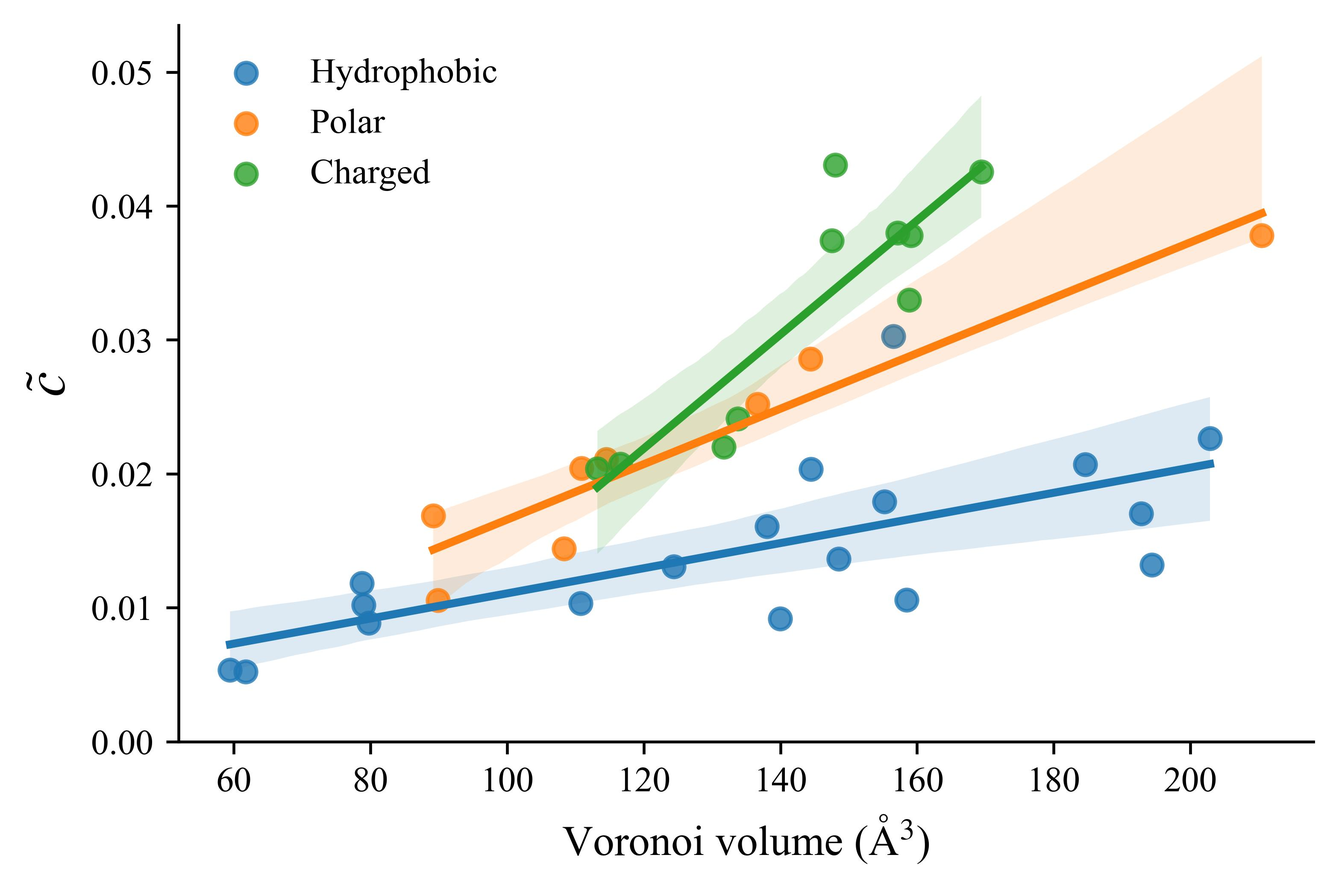
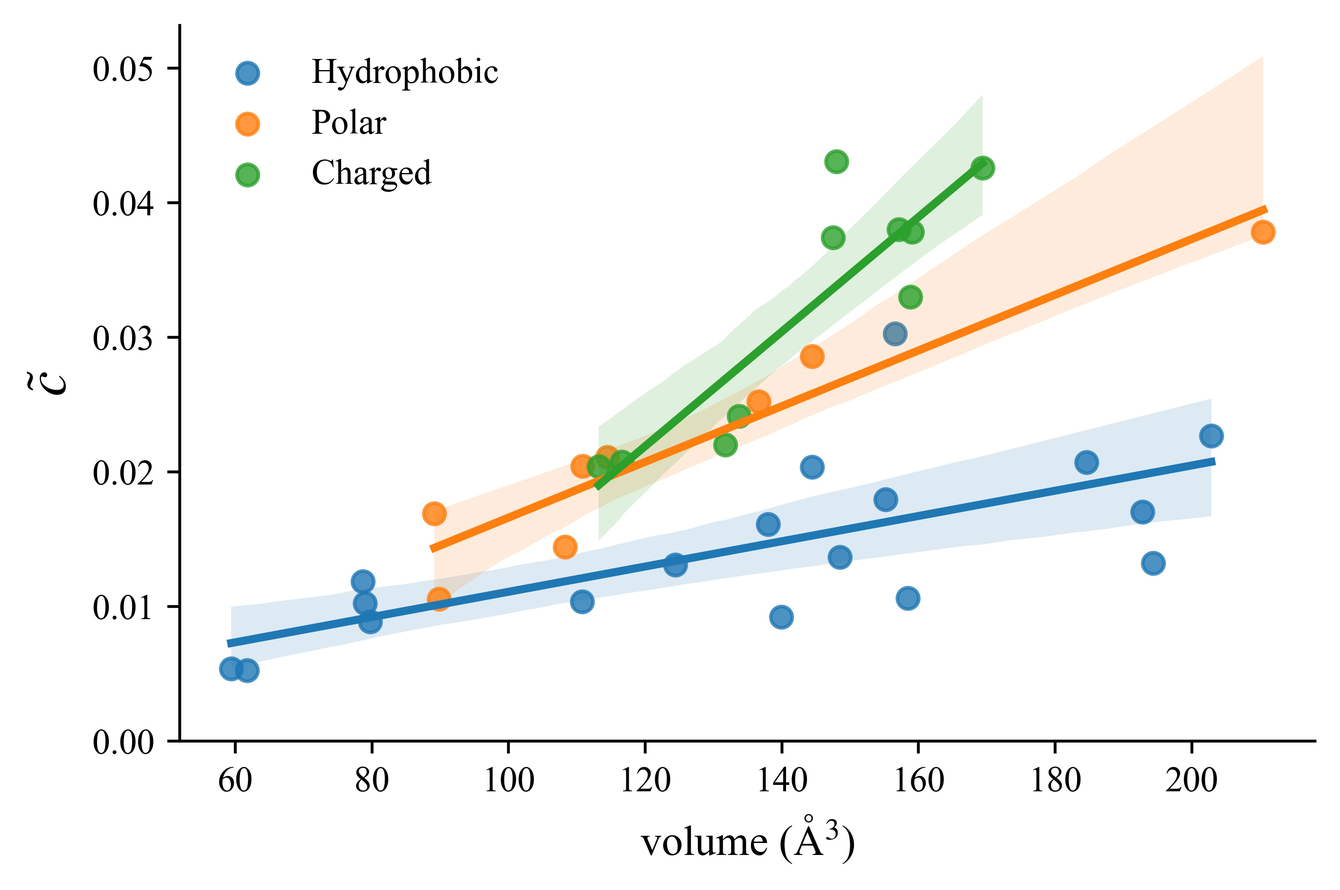
chapter 3

diff --git a/source/11_chapter3_hp36_linearhomopolymer.md b/source/11_chapter3_hp36_linearhomopolymer.md
@@ -6,8 +6,8 @@
 
 ![The thermal conductivity of HP36. The autocorrelation function of the heat current of the entire molecule of HP36 was calculated and ensemble-averaged, and plotted as a function of time (blue). The inset shows the short-time region (0 - 0.2 ps). The heat current autocorrelation function was integrated over time using the trapezoidal rule, yielding a quantity denoted as $\lambda$  as a function of integration time (shown in orange), and a running mean of $\lambda$ was computed with a window size of 100 fs and is illustrated in red. The volume of HP36 was set to 4845.447 $\AA^3$.[@yamato2022]](figures/cross/hcacf-100ps.jpeg){#fig:hcacf-100ps width=70%}
 
-The overall thermal conductivity, denoted as $\lambda$, of the HP36 protein was determined using equation (@eqc1) in this study. To calculate the total volume of HP36 and individual atom volumes, we utilized the VLDP (Voronoi Laguerre Delaunay Protein) method through a web server [@esque2013].
-After obtaining the ensemble-averaged heat current autocorrelation function, we performed time integration using the trapezoidal rule, as depicted in Figure [hcacf-100ps]. The value of $\lambda$ converged at approximately $t$ = 60 ps, resulting in a thermal conductivity of 0.26 $\mathrm{\pm}$ 0.01 $\mathrm{W{/}(m{\cdot}K)}$.
+The overall thermal conductivity, denoted as $\lambda$, of the HP36 protein was determined using equation ([@eq:eqc1]) in this study. To calculate the total volume of HP36 and individual atom volumes, we utilized the VLDP (Voronoi Laguerre Delaunay Protein) method through a web server [@esque2013].
+After obtaining the ensemble-averaged heat current autocorrelation function, we performed time integration using the trapezoidal rule, as depicted in Figure [@fig:hcacf-100ps]. The value of $\lambda$ converged at approximately $t$ = 60 ps, resulting in a thermal conductivity of 0.26 $\mathrm{\pm}$ 0.01 $\mathrm{W{/}(m{\cdot}K)}$.
 It is worth noting that the calculated value of $\lambda$ slightly differs from the previous calculation,[@yamato2022] primarily due to the utilization of a "flexible" TIP3P water model in the previous study.
 The dependence of the water model on thermal conductivity will be discussed further in @sec:watermodel.
 For subsequent analyses, we set the upper limit of the time integration of the local heat current autocorrelation function to 60 ps.
@@ -15,12 +15,12 @@ For subsequent analyses, we set the upper limit of the time integration of the l
 ## Local thermal transport
 
 The contribution factors for intra-residue and inter-residue heat currents were presented in [@fig:heat_before].
-In general, the intra-residue contribution factors were found to be higher than the inter-residue factors, except for certain pairs of terminal residues (Met1-Leu2, Leu35-Phe36 and Gly12-Met13).
-The average intra-residue contribution factor was 0.029, which was nearly twice as large as the average inter-residue contribution factor (0.016).
-This suggests that intra-residue thermal transport makes a dominant contribution to the overall heat current, which is consistent with the findings of the master equation analysis. [@buchenberg2016]
-On the other hand, different with these two dominate pathways of thermal tranfer in proteins, the contributions from sidechain-sidechain heat currents across non-bonded native contacts were relatively small.[@yamato2022]
+In general, the intra-residue contribution factors were found to be higher than the inter-residue factors (_c_), except for certain pairs of terminal residues (Met1-Leu2, Leu35-Phe36 and Gly12-Met13).
+The average intra-residue contribution factor (see @eq:eqc10) was 0.029, which was nearly twice as large as the average inter-residue contribution factor (0.016).
+This suggests that intra-residue thermal transport makes a dominant contribution to the overall heat current, which is consistent with the results of the master equation analysis. [@buchenberg2016]
+In addition to these two dominating thermal energy transport pathways, the contributions from sidechain-sidechain heat currents across non-bonded native contacts were relatively small.[@yamato2022]
 
-![The contribution factors without cross-correlation corrections were calculated and plotted for both intra-residue ($c(\alpha, \alpha)$, shown in red) and inter-residue ($c(\alpha, \alpha+1)$, shown in green) interactions, as described in equations (eqc11) and (eqc12), respectively. The data points, such as $c(1,2)$, represent the contribution factor between residue numbers $\alpha = 1$ and $\alpha = 2$. The horizontal axis displays the residue number, $\alpha$, along with the corresponding residue names represented in the one-letter code. The grey-shaded regions correspond to the $\alpha$-helical regions.](figures/cross/heat-conductivity-before-corrected.jpeg){#fig:heat_before width=70%}
+![The contribution factors without cross-correlation corrections were calculated and plotted for both intra-residue ($c(\alpha, \alpha)$, shown in red) and inter-residue ($c(\alpha, \alpha+1)$, shown in green) interactions, as described in equations (@eq:eqc11) and (@eq:eqc12), respectively. The data points, such as $c(1,2)$, represent the contribution factor between residue numbers $\alpha = 1$ and $\alpha = 2$. The horizontal axis displays the residue number, $\alpha$, along with the corresponding residue names represented in the one-letter code. The grey-shaded regions correspond to the $\alpha$-helical regions.](figures/cross/heat-conductivity-before-corrected.jpeg){#fig:heat_before width=70%}
 
 The sum of the intra-residue contribution factors, $\sum_{\alpha=1}^{36}{c(\alpha,\alpha)}$, was 1.06, and the sum of the inter-residue contribution factors, $\sum_{\alpha=1}^{35}{c(\alpha,\alpha+1)}$, was 0.57.
 The deviation of 1.06 + 0.57 = 1.63 from 1 suggests the presence of non-negligible cross-correlation effects among different partial heat currents.
@@ -32,57 +32,55 @@ In @sec:cross-correlation, we will delve into a more detailed analysis of these 
 
 ![Contribution factors with cross-correlation correction. See the caption to [@fig:heat_before]](figures/cross/heat-conductivity-after-corrected.jpeg){#fig:heat_after width=70%}
 
-In this study, we made the assumption that the cross-correlation effect is limited to adjacent residues along the polypeptide sequence.
-The cross-correlation term was calculated according to the method described in @sec:method-cross-correlation, and the results are presented in @fig:cross.
-Interestingly, we observed a dependence of the cross-correlation effect on the secondary structure, with the α-helical regions showing less influence from cross-correlation.
-The reason for this observation is currently unclear and will be investigated further in future studies focusing on the secondary structure dependence of thermal transport in proteins.
+In this study, we assumed that the cross-correlation effect is short range along the polypeptide sequence (@sec:method-cross-correlation).
+Interestingly, the cross-correlation effect exhibits secondary structure dependence (@fig:cross): the α-helical regions are less affected by the cross-correlation.
+The reason for this observation is currently unclear and will be investigated further in future studies.
 
-After incorporating the cross-correlation terms, all of the contribution factors decreased.
-The corrected contribution factors are shown in [@fig:heat_after], which exhibits similar patterns to [@fig:heat_before].
-The total intra-residue contribution was 0.75, approximately three times larger than the inter-residue contribution of 0.26.
-To validate the assumption of short-range cross-correlation, we also calculated the contributing factors for the second nearest cross-correlation between residue α and α+2 ($\xi_{\alpha, \alpha+2}$) using the same method described in @sec:method-cross-correlation.
-The total contribution factors due to the second nearest cross-correlation were 0.03, shown in @tbl:secondnearest, while that for the nearest cross-correlation was -0.62, shown in @tbl:nearest, indicating that the second nearest cross-correlation has a minimal impact on the overall heat current.
+All of the contribution factors decreased after the cross-correlation correction (@fig:heat_after), yielding a similar pattern to @fig:heat_before.
+The total intra-residue contribution was 0.75, approximately three times larger than that of the inter-residue contribution of 0.26.
+To validate the assumption of short-range cross-correlation, we also calculated the contributing factors for the second nearest cross-correlation between residue pairs of α and α+2 ($\xi_{\alpha, \alpha+2}$), ($\alpha$ = 1, 2, ..., 34), using the same method described in @sec:method-cross-correlation.
+The total contribution due to the second nearest cross-correlation was 0.03 (@tbl:secondnearest), while that for the nearest cross-correlation was –0.62(@tbl:nearest), indicating that the second nearest cross-correlation has a minimal impact on the overall heat current.
 
-To assess the validity of the linear-homopolymer-like model, we compared the time-integrated autocorrelation functions (ACF) between $\Lambda$ and $\tilde \Lambda$.
-The former is derived from the exact heat current of the entire molecule, while the latter is based on the linear-homopolymer-like model.
-The calculation results showed that $\tilde \Lambda$ overestimated $\Lambda$ by only 0.9%, indicating that the linear-homopolymer-like model successfully represents the thermal transport property of the entire molecule.
+To validate the linear-homopolymer-like model, we compared $\Lambda$ and $\tilde \Lambda$.
+The former was derived from the exact heat current of the entire molecule, while the latter was based on the linear-homopolymer-like model.
+The calculation results showed that $\tilde \Lambda$ overestimated $\Lambda$ only by 0.9%, indicating that the linear-homopolymer-like model successfully represents the thermal transport property of the entire molecule.
 
 | Residue($\alpha$)| Residue($\alpha+2$) | $\xi_{\alpha, \alpha+2}$ | $c^{\rm{cross}}(\alpha, \alpha+2)$ |
 | :--------------- | :------------------- | :----------------------- | :--------------------- |
-| MET1             | SER3                 | 0.042                    | 0.004                  |
-| LEU2             | ASP4                 | 0.036                    | 0.004                  |
-| SER3             | GLU5                 | 0.036                    | 0.004                  |
-| ASP4             | ASP6                 | -0.007                   | -0.001                 |
-| GLU5             | PHE7                 | -0.028                   | -0.003                 |
-| ASP6             | LYS8                 | 0.000                    | 0.000                  |
-| PHE7             | ALA9                 | 0.027                    | 0.003                  |
-| LYS8             | VAL10                | 0.022                    | 0.002                  |
-| ALA9             | PHE11                | 0.042                    | 0.004                  |
-| VAL10            | GLY12                | 0.029                    | 0.003                  |
-| PHE11            | MET13                | 0.051                    | 0.005                  |
-| GLY12            | THR14                | 0.006                    | 0.001                  |
-| MET13            | ARG15                | -0.033                   | -0.003                 |
-| THR14            | SER16                | -0.024                   | -0.002                 |
 | ARG15            | ALA17                | 0.012                    | 0.001                  |
-| SER16            | PHE18                | 0.015                    | 0.001                  |
 | ALA17            | ALA19                | -0.010                   | -0.001                 |
+| PHE7             | ALA9                 | 0.027                    | 0.003                  |
+| MET13            | ARG15                | -0.033                   | -0.003                 |
 | PHE18            | ASN20                | -0.007                   | -0.001                 |
-| ALA19            | LEU21                | 0.024                    | 0.002                  |
-| ASN20            | PRO22                | 0.026                    | 0.003                  |
-| LEU21            | LEU23                | -0.027                   | -0.003                 |
-| PRO22            | TRP24                | 0.014                    | 0.001                  |
-| LEU23            | LYS25                | 0.063                    | 0.006                  |
+| GLN26            | ASN28                | 0.032                    | 0.003                  |
+| LEU2             | ASP4                 | 0.036                    | 0.004                  |
+| ASP4             | ASP6                 | -0.007                   | -0.001                 |
 | TRP24            | GLN26                | 0.027                    | 0.003                  |
 | LYS25            | GLN27                | 0.045                    | 0.005                  |
-| GLN26            | ASN28                | 0.032                    | 0.003                  |
+| LYS30            | GLU32                | 0.010                    | 0.001                  |
+| SER3             | GLU5                 | 0.036                    | 0.004                  |
+| VAL10            | GLY12                | 0.029                    | 0.003                  |
+| GLU32            | GLY34                | 0.038                    | 0.004                  |
+| ALA19            | LEU21                | 0.024                    | 0.002                  |
+| LEU21            | LEU23                | -0.027                   | -0.003                 |
 | GLN27            | LEU29                | 0.019                    | 0.002                  |
+| LYS33            | LEU35                | 0.086                    | 0.009                  |
+| LEU23            | LYS25                | 0.063                    | 0.006                  |
 | ASN28            | LYS30                | -0.396                   | -0.040                 |
 | LEU29            | LYS31                | 0.028                    | 0.003                  |
-| LYS30            | GLU32                | 0.010                    | 0.001                  |
 | LYS31            | LYS33                | 0.047                    | 0.005                  |
-| GLU32            | GLY34                | 0.038                    | 0.004                  |
-| LYS33            | LEU35                | 0.086                    | 0.009                  |
+| ASP6             | LYS8                 | 0.000                    | 0.000                  |
+| PHE11            | MET13                | 0.051                    | 0.005                  |
+| ALA9             | PHE11                | 0.042                    | 0.004                  |
+| SER16            | PHE18                | 0.015                    | 0.001                  |
 | GLY34            | PHE36                | 0.034                    | 0.003                  |
+| GLU5             | PHE7                 | -0.028                   | -0.003                 |
+| ASN20            | PRO22                | 0.026                    | 0.003                  |
+| THR14            | SER16                | -0.024                   | -0.002                 |
+| MET1             | SER3                 | 0.042                    | 0.004                  |
+| GLY12            | THR14                | 0.006                    | 0.001                  |
+| PRO22            | TRP24                | 0.014                    | 0.001                  |
+| LYS8             | VAL10                | 0.022                    | 0.002                  |
 
 : The second nearest cross-correlation. $\xi_{\alpha, \alpha+2}$ was calculated in a similar manner as $\xi_{\alpha, \alpha+1}$ using @eq:eqc11, and contribution factor, $c^{\rm{cross}}(\alpha, \alpha+2)$, was calculated as $\xi_{\alpha,\alpha+2} / \Lambda$. The values of $\xi$ are shown in the unit of ($\rm{\AA \rm{\cdot kcal/mol)^2/fs}}$. {#tbl:secondnearest}
 
@@ -129,40 +127,37 @@ The calculation results showed that $\tilde \Lambda$ overestimated $\Lambda$ by 
 
 : Local thermal trasnport property after the cross-correlation correction. $\bm\tilde\Lambda_{\alpha, \alpha}$ ($\bm\alpha$=1, 2, ..., 36) and $\bm\tilde\Lambda_{\alpha, \alpha+1}$  ($\bm\alpha$=1, 2, ..., 35) are shown in unit of $\rm{(\AA \cdot kcal)^2/fs}$ (@eq:eqc8), while the value of $\Lambda$ was 9.79 in the same unit (@eq:eqc9). {#tbl:nearest}
 
-
 ## Residue-type dependence{#sec:residue-type-dependence}
 
-By applying the site-selective heat current analysis based on the linear-homopolymer-like model, we were able to evaluate the local thermal conductivity on a residue-by-residue basis. 
+By applying the site-selective heat current analysis based on the linear-homopolymer-like model, we were able to evaluate the residue-by-residue local thermal conductivity.
 [@fig:residue_type] shows the dependence of the intra-residue contribution factors on the residue type.
-The residue volume, V_α_, was calculated as the sum of the atomic volumes of the constituent atoms.
-We obtained the average residue volume using five representative structures of HP36 in thermal equilibrium at _T_ = 300 K, obtained from the VLDP web server.[@esque2013]
+The residue volume, $V_{\alpha}$, was calculated as the sum of the atomic volumes of the constituent atoms.
+We obtained the average residue volume using five representative structures of HP36 in thermal equilibrium at _T_ = 300 K using the VLDP web server.[@esque2013]
 
 We observed that the values of the corrected contribution factors, $\tilde c$, are proportional to the residue volume.
-Additionally, the slope of the linear regression line depends on the residue type, indicating that the residue-wise thermal conductivity is sensitive to the residue type.
-The order of thermal conductivity decreases in the order of charged, polar, and hydrophobic residues.
-We define the residue-wise thermal conductivity, $\lambda_{\alpha}$, of residue α as $\tilde\Lambda_{\alpha,\alpha}/(3V_{\alpha}k_B T)$, which is consistent with the previous report that the thermal diffusion along an α-helix composed entirely of polar residues is faster than that of non-polar residues.[@mino2014]
+Additionally, the slope of the regression line depends on the residue type, indicating that the residue-wise thermal conductivity is sensitive to the residue type.
+We define the residue-wise thermal conductivity, $\lambda_{\alpha}$, of residue α as $\tilde\Lambda_{\alpha,\alpha}/(3V_{\alpha}k_B T)$, and we see that $\lambda_{\alpha}$ decreases in the order of charged, polar, and hydrophobic residues,in consistent with the previous report that the thermal diffusion along an α-helix composed entirely of polar residues is faster than that of its non-polar -residue counterpart.[@mino2014]
 
-![A scatter plot depicting the relationship between the intra-residue contribution factors, $\tilde{c}$, with cross-correlation correction, and the volume of each residue. The contributing factors for charged residues are represented by green dots, polar residues by orange dots, and hydrophobic residues by blue dots.](figures/cross/residue_type_dependence_volume_after_correction.jpeg){#fig:residue_type}
+![Volume dependence of $\tilde{c}$, a residue-wise contribution factor after cross-correlation correction, for charged (green), polar (orange) and  hydrophobic (blue) residues, respectively.](figures/cross/residue_type_dependence_volume_after_correction.jpeg){#fig:residue_type}
 
 ## Local density dependence{#sec:local-density-dependence}
 
 <!-- figures* environment create a two-column-sized figures  -->
 ![A scatter plot and linear correlation analysis were performed to examine the relationship between the intra-residue thermal conductivity and the local density, represented by the mass density ($\rho$), calculated as the ratio of residue mass to residue volume (unit: g/$\rm{cm^3}$)](figures/cross/density_combined.jpeg){#fig:density}
 
-The density of a material is widely recognized as an important factor in determining its thermophysical properties.[@mizutani2022]
+The density of a material is widely recognized as an important determinant of its thermophysical properties.[@mizutani2022]
 The product of material density ($\rho$) and its specific heat capacity ($c_p$), denoted as $\rho{c_p}$, is commonly used as a measure of the thermal energy storage capacity of a material.[@bergman2011]
-This quantity represents the amount of thermal energy that can be stored per unit volume of the material for a given temperature change.
 A higher value of $\rho{c_p}$ indicates a greater capacity of the material to store thermal energy.
 In macroscopic homogeneous materials, it is generally observed that higher densities are associated with higher thermal conductivities.
 This relationship is evident in various materials, such as high-density polyethylene having a higher thermal conductivity (0.44 $\mathrm{W{/} (m{\cdot}K)}$) compared to low-density polyethylene (0.3 $\mathrm{W{/} (m{\cdot}K)}$).
 
-However, in the case of heterogeneous materials like protein molecules, the local density can vary significantly from one site to another.
-This is due to the differences in volume and packing of amino acid residues, resulting in a wider distribution of residue densities.
-To investigate the relationship between local density and thermal conductivity in proteins, a scatter plot was generated in [@fig:density], depicting the residue-wise thermal conductivity versus the local density for each residue.
-The local mass density values range from 1.20 to 1.70 $\rm{g/cm^3}$, shown in [@fig:density]a, b, which is somewhat broader compared to the experimentally and theoretically determined average protein densities ranging from 1.39 to 1.44 $\rm{g/cm^3}$.[@fischer2009]
-This wider range of residue densities is primarily due to the variation in the volume of amino acid residues between buried and exposed states within the protein structure.
-The buried residues, which are surrounded by other residues, tend to have a higher density compared to the exposed residues, which have more solvent accessibility.
-This distinction leads to a broader distribution of residue densities within the protein molecule.[@harpaz1994;@baud1999]
+However, in the case of heterogeneous materials such as proteins, the local density can vary significantly from one site to another.
+This is due to the different packing of amino acid residues, resulting in a wider distribution of residue densities.
+The relationship between local density and thermal conductivity in proteins is shown in [@fig:density], a scatter plot of the residue-wise thermal conductivity versus local density of each residue.
+The local mass density values range from 1.20 to 1.70 $\rm{g/cm^3}$, shown in [@fig:density], which is somewhat broader compared to those determined experimentally and theoretically (1.33 to 1.44 $\rm{g/cm^3}$).[@fischer2009]
+This wider range of residue densities could ne mainly attributed to the residue-wise volume variation between different environments, i.e., buried or exposed.
+The buried residues, which are surrounded by other residues, tend to have a higher density than the exposed residues, with greater solvent accessibility,
+leading to a broader distribution of residue densities within the protein molecule.[@harpaz1994;@baud1999]
 
 ![Comparison of the residue volumes in this study with  those in water (blue) and the protein interior (green)[@harpaz1994]. The second row of the x-axis represents the amino acid names using the one-letter format, with the residues buried into the protein interior highlighted in red. The third row indicates the residue types, with hydrophobic residues shown in blue, charged residues in green, and polar residues in orange.](figures/cross/volume_comparison.jpeg){#fig:volume_comparison}
 
@@ -173,22 +168,22 @@ This distinction leads to a broader distribution of residue densities within the
 | polar        | 0.95 | 0.0004    | 2.1 $\times10^{-4}$  |
 | hydrophobic  | 0.68 | 0.0019    | 9.4 $\times10^{-5}$  |
 : Pearson correlation coefficient (*r*), *p*-value and slope of linear relationship between $\tilde c$ and volume in @fig:residue_type.
-Generally, a value of $|r|$ > 0.3 or, a *p*-value < 0.05 is often considered to be statistically significant, indicating that the the pair of variables are correlated. {#tbl:pearson}
+Generally, a value of $|r|$ > 0.3, or a *p*-value < 0.05 is often considered to be statistically significant, indicating that the pair of variables under consideration are correlated. {#tbl:pearson}
 
-The regression analysis with cross-correlation correction, shown in @fig:density a, indicates that the thermal conductivity ($\lambda$) is proportional to the residue mass density, although the slope of the regression line is not steep, suggesting a weak density dependence.
-The data points exhibit a broad distribution, and statistically, the correlation between thermal conductivity and density is not significant, as indicated by a Pearson correlation coefficient of 0.3 and a p-value of 0.078.
-Pearson correlation analysis for all data in @fig:density a and sub data points classified by residue types in @fig:density b are listed in @tbl:pearson.
+The linear regression analysis of the residue-wise thermal conductivity with cross-correlation correction shows a weak density dependence (@fig:density a).
+The data points exhibit a broad distribution, and the correlation between thermal conductivity and density is not statistically significant, as indicated by a Pearson correlation coefficient of 0.3 and a p-value of 0.078.
+Pearson correlation analysis for all data in @fig:density a and sub data points classified by residue types in @fig:density b are shown in @tbl:pearson.
 
 In @fig:density b, the linear regression lines for hydrophobic and polar residues have almost constant thermal conductivity values, while charged residues show a negative proportionality, although the reason for this observation is unclear.
 One possible explanation is that charged residues tend to have larger volumes compared to other residue types.[@harpaz1994]
-Additionally, as shown in @fig:density b, the thermal conductivity of polar residues is approximately twice that of hydrophobic residues, which aligns well with previous observations of faster heat diffusion in polar residue $\alpha$-helices compared to non-polar residue $\alpha$-helices.
+Additionally, as shown in @fig:density b, the thermal conductivity of polar residues is approximately twice that of hydrophobic residues, in line with the previous observations of faster heat diffusion in $\alpha$-helices consisting of polar residues than their non-polar-residue counterparts.
 
 For the HP36 protein, the subtotal contribution factors ($\tilde c$) for charged, polar, and hydrophobic residues were 0.32, 0.17, and 0.23, respectively.
-Although charged residues account for a smaller proportion in this protein molecule (10/36) compared to hydrophobic residues (18/36), their contribution to the overall heat current appears to dominate.
+Although HP36 contains smaller proportions of charged residues (10/36) than that of hydrophobic residues (18/36), the charged residues play more important roles in the thermal transport due to the relatively larger contribution to the overall heat current.
 
 ## Thermal diffusivity and temperature relaxation time
 
-In the field of molecular biophysics, the study of vibrational energy relaxation in proteins has received more attention than the thermal transport properties of proteins.
+In the field of molecular biophysics,vibrational energy relaxation in proteins has attracted more attention than the thermal transport properties of proteins.
 A pioneering study by Mizutani and Kitagawa [@mizutani1997] investigated the excess energy dissipation in myoglobin and observed double exponential decay in the population of the $\nu_4$ mode of the heme after flash photolysis.
 They estimated the temperature relaxation times of the vibrational mode to be 3.0 and 25 ps, respectively, assuming a Boltzmann distribution for the vibrational mode.
 This highlights the importance of picosecond dynamics in the temperature relaxation of proteins, which involves energy redistribution processes.
@@ -200,11 +195,11 @@ $$
 $$
 {#eq:eqc20}
 
-In this equation, $\lambda$ represents the thermal conductivity, $\tau$ is the relaxation time, $\alpha$ is the thermal diffusivity, $\rho$ is the protein density, $c_p$ is the heat capacity, and $R$ is the effective radius of the protein, which can be estimated from the protein volume, $V = \frac{4 \pi R^3}{4}$.
+In this equation, $\lambda$ represents the thermal conductivity, $\tau$ is the relaxation time, $\alpha$ is the thermal diffusivity, $\rho$ is the protein density, $c_p$ is the heat capacity, and $R$ is the effective radius of the protein, which can be estimated from the protein volume, $V = \frac{4 \pi R^3}{3}$.
 
 The estimated values of $\tau$ fall within the range of 8.4 to 13.9 ps, corresponding to a temperature relaxation rate ranging from 0.072 to 0.119 ps$^{-1}$.
 It should be noted that the reported values of vibrational energy relaxation times range from a few picoseconds to several tens of picoseconds.[@henry1986; @mizutani1997; @lervik2010; @sagnella2001; @bu2003; @fujisaki2005]
-The estimated thermal diffusivity is in the range of 7.9 to 13.2 Å$^2$ ps$^{-1}$, which is in good agreement with values obtained from nonequilibrium molecular dynamics simulations.[@botan2007; @nguyen2010]
+The estimated thermal diffusivity is in the range of 7.9 to 13.2 Å$^2$ ps$^{-1}$, in good agreement with values obtained from nonequilibrium molecular dynamics simulations.[@botan2007; @nguyen2010]
 The density of HP36 was calculated as $\rho = 1.57$ g/cm^3^, slightly larger than the widely used value of 1.35 g/cm$^3$.[@fischer2009]
 The heat capacity was assumed to be in the range of 0.30 to 0.50 cal/g deg.[@gekko1979]
 
